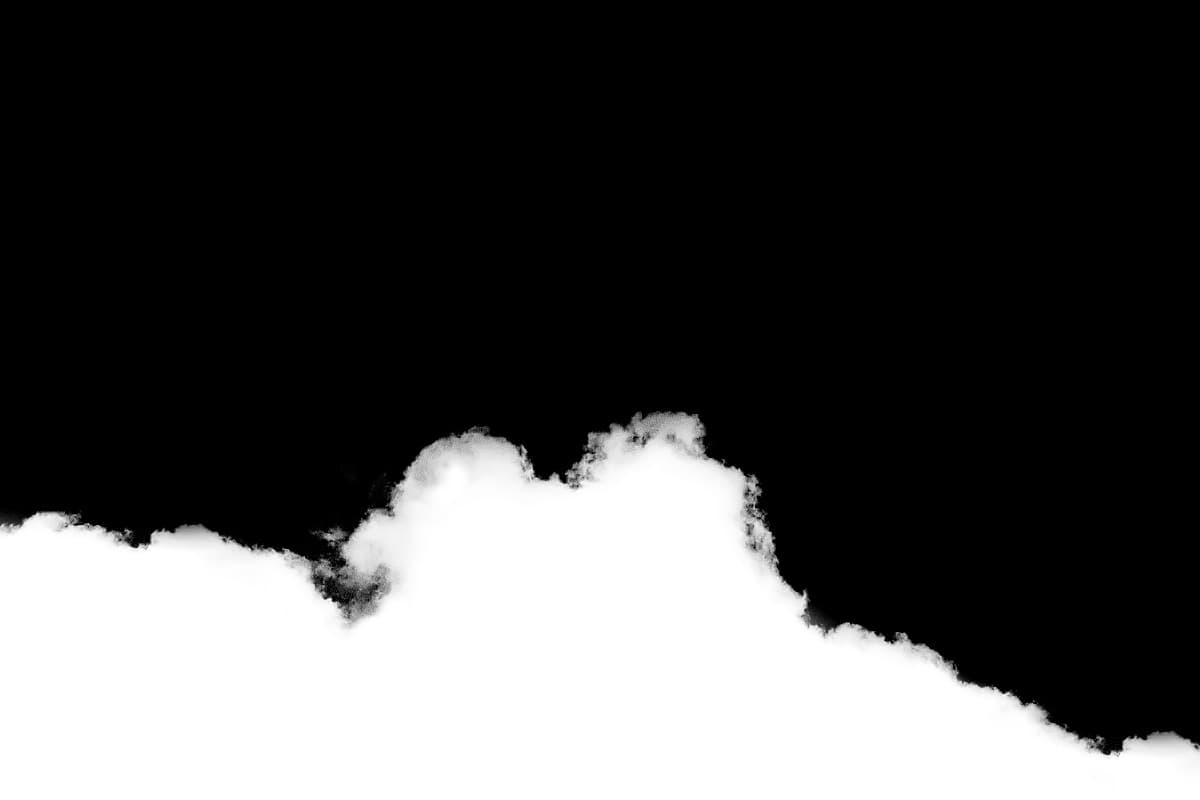
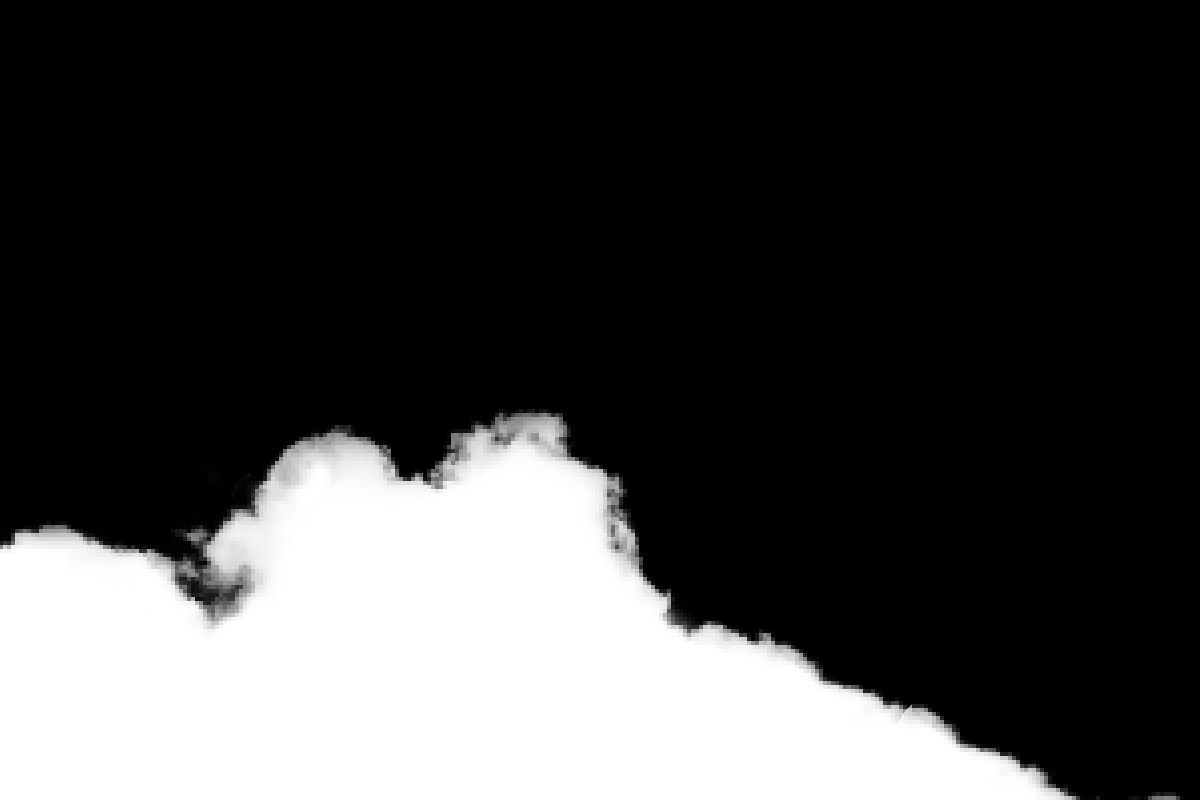
修改主题

Changed region(s): [[0.0, 0.5, 1.0, 1.0]]

diff --git a/src/views/MainView/MainView.vue b/src/views/MainView/MainView.vue
@@ -20,14 +20,15 @@
               <image id="sky" class="sky" x="-100" xlink:href="@/assets/sky.jpg"  width="1500" height="660" />
               <image class="mountBg" xlink:href="@/assets/mountbg.png" width="1200" height="800"/>
               <image class="mountMg" xlink:href="@/assets/mountmg.png" width="1200" height="800"/>
-<!--              <image class="cloud2" xlink:href="@/assets/cloud2.png" width="1200" height="800"/>-->
+              <image class="cloud2" xlink:href="@/assets/cloud2.png" width="1200" height="800"/>
               <image class="mountFg" xlink:href="@/assets/mountfg.png" width="1200" height="800"/>
 <!--              <image class="cloud1" xlink:href="@/assets/cloud1.png"  width="1200" height="800"/>-->
-<!--              <image class="cloud3" xlink:href="@/assets/cloud3.png" width="1200" height="800"/>-->
-              <text fill="#fff" x="350" y="200" font-size="2rem">printf("Hello World!");</text>
+              <image class="cloud3" xlink:href="@/assets/cloud3.png" width="1200" height="800"/>
+              <text fill="#fff" x="150" y="150" font-size="2rem">printf("Hello World!");</text>
               <g mask="url(#m)">
                 <rect fill="#171717" width="100%" height="100%" />
-                <text x="400" y="200" fill="#162a43" font-size="2rem">Hello World!</text>
+                <text x="200" y="150" fill="#162a43" font-size="2rem">Hello World!</text>
+                <text x="200" y="200" fill="#162a43" font-size="2rem">:)</text>
               </g>
             </svg>
           </div>
@@ -112,11 +113,11 @@ export default {
         {width: '100vh', height: '200vh'})
       gsap.timeline(
         {scrollTrigger: {trigger: '.scrollDist', start: 'top top', end: 'bottom bottom', scrub: 1}})
-        .fromTo('.sky', {y: -5, rotation: -5}, {y: -50, rotation: 2}, 0)
+        .fromTo('.sky', {y: -20, rotation: -5}, {y: -70, rotation: 2}, 0)
         .fromTo('.cloud1', {y: 100}, {y: -800}, 0)
-        // .fromTo('.cloud2', {y: -150}, {y: -500}, 0)
-        // .fromTo('.cloud3', {y: -50}, {y: -650}, 0)
-        .fromTo('.mountBg', {y: -10}, {y: -100}, 0)
+        .fromTo('.cloud2', {y: -150}, {y: -500}, 0)
+        .fromTo('.cloud3', {y: -50}, {y: -650}, 0)
+        .fromTo('.mountBg', {y: -10}, {y: -75}, 0)
         .fromTo('.mountMg', {y: -30}, {y: -250}, 0)
         .fromTo('.mountFg', {y: -50}, {y: -600}, 0)
     }
